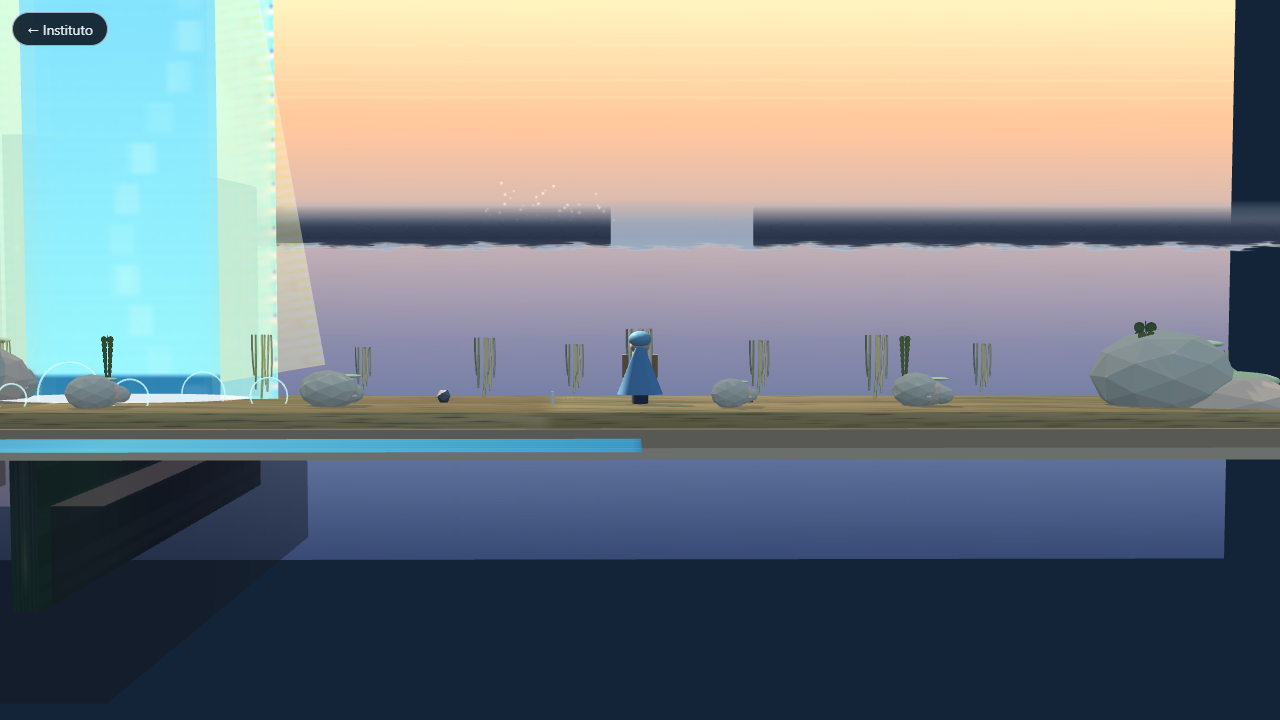
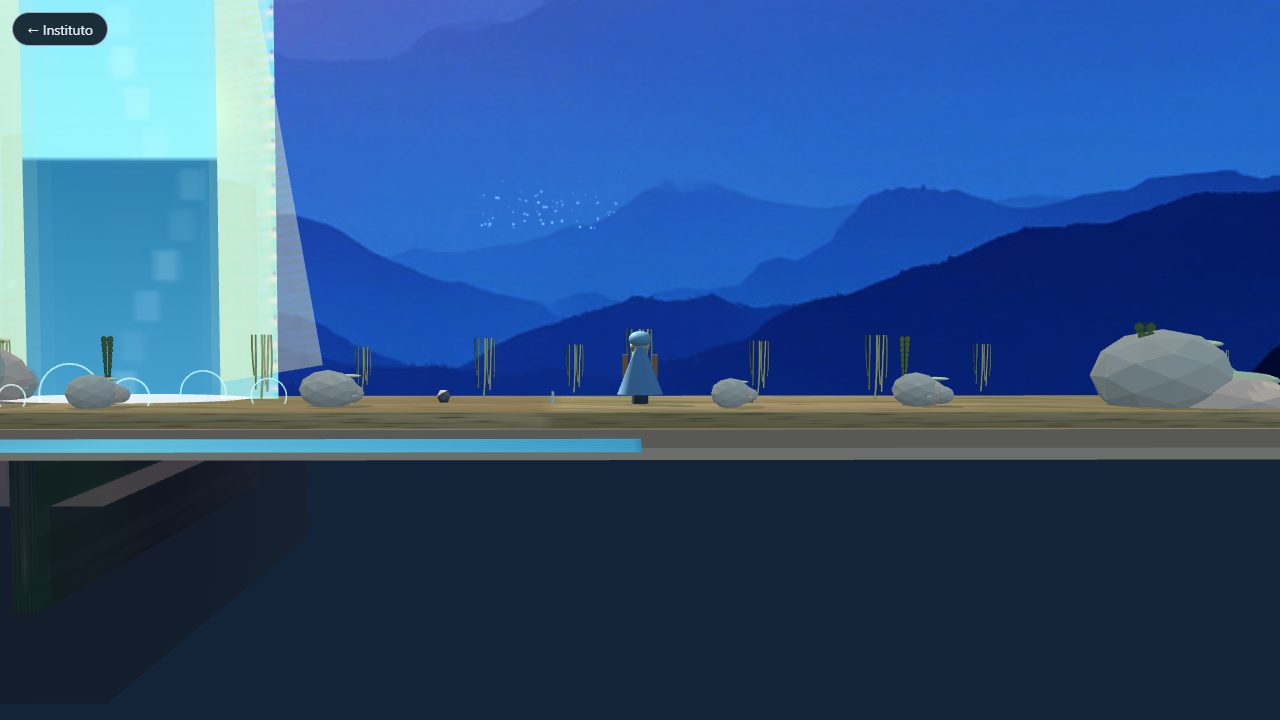
M0.6 Physica: hybrid art pipeline (mmx-cli) — far mountain backdrop
- 6 texturas mmx-cli generadas (mountain-far, mountain-mid, water-surface,
  cliff-wall, plank-top, city-silhouette) + 3 variantes v2 (cliff-wall-v2,
  plank-top-clean, sky-warm-v2) para selección.
- BABYLON backdrop único de 440x184 con mountain-far_001.jpg (Planet of
  Lana style, sky+mountains en una imagen), URL absoluta /assets/...,
  invertY=true, StandardMaterial disableLighting (PBR+unlit producía
  checkerboard de debug).
- Ocultar metropoGroup por defecto (sólo se revela al subir a la cima con
  estacionEstabilizada + |vx|>0.3); antes los edificios 3D se renderizaban
  desde el inicio y aparecían como bloques azules detrás de la cascada.
- build OK, screenshots E2 confirman alpenglow + atmospheric perspective
  tipo Trine 4 / Planet of Lana.

diff --git a/src/experiences/physica/babylonWorld.ts b/src/experiences/physica/babylonWorld.ts
@@ -214,227 +214,54 @@ export function createPhysicaWorld(hostEl: HTMLElement): PhysicaWorld {
   shadows.darkness = 0.34;
 
   /* ============================================================
-     MONTAÑAS PINTADAS DE FONDO — visibles en TODAS las escenas.
-     Planos 2.5D con silueta pintada a canvas + niebla atmosférica.
-     Cubre x ∈ [-110, 230] para envolver el mundo continuo.
+     BACKDROP PINTADO (M0.6) — generado con mmx-cli. Un solo plano
+     ancho detrás de todo el mundo que combina cielo y montañas en
+     UNA imagen. Cubre x∈[-200,200], z=-220, height 200u. La
+     imagen tiene cielo arriba (top 50%) y montañas+atmósfera
+     abajo (bottom 50%) — el V-mapping del plano pone cielo en
+     y≈30..130 y montañas en y≈-70..30. La cornisa tapa la base.
      ============================================================ */
   const worldBackgroundMountains: BABYLON.Mesh[] = [];
   const worldMountTextures: BABYLON.Texture[] = [];
-  const paintMountainSilhouette = (
-    W: number, H: number, topColor: string, midColor: string, baseColor: string,
-    scale: number, seed: number,
-  ): BABYLON.Texture => {
-    const c = document.createElement('canvas');
-    c.width = W; c.height = H;
-    const ctx = c.getContext('2d')!;
-    // CANVAS TRANSPARENTE. La parte de arriba (cielo) NO se pinta — el
-    // cielo global (babylonWorld globalSky) se ve a través. La silueta
-    // de la montaña se pinta con la paleta del layer. Importante: las
-    // cumbres NO pueden sobrepasar baseY; si lo hacen, el cuerpo
-    // opaco llena el canvas y el cielo se vuelve invisible (bug M0.4).
-    const baseY = H * 0.55;
-    const segments = 110;
-    const span = W;
-    const peaks: number[] = [];
-    for (let i = 0; i < segments; i++) {
-      // Peaks más prominentes (M0.5.1): macro 100, meso 60, detail 40,
-      // base 20 → max 220. Para scale 0.35: peak max ≈ 77 → outline
-      // en y=204 (V=0.40, 40% superior transparente). Cumbres
-      // claramente visibles sobre el horizonte.
-      const macro = Math.abs(Math.sin(seed + i * 0.18)) * 100;
-      const meso = Math.abs(Math.cos(seed * 1.7 + i * 0.5)) * 60;
-      const detail = Math.abs(Math.sin(seed * 2.3 + i * 1.4)) * 40;
-      const peak = 20 + macro + meso + detail;
-      peaks.push(peak * scale);
-    }
-    // 1) Sombra lejana (atmospheric perspective): capa oscura detrás con
-    //    offset para sensación de profundidad.
-    ctx.beginPath();
-    ctx.moveTo(-6, baseY + 14);
-    for (let i = 0; i < segments; i++) {
-      const x = (i / (segments - 1)) * span;
-      ctx.lineTo(x - 6, baseY - peaks[i] * 0.92 + 6);
-    }
-    ctx.lineTo(W + 6, baseY + 14);
-    ctx.lineTo(W + 6, H);
-    ctx.lineTo(-6, H);
-    ctx.closePath();
-    const shadowGrad = ctx.createLinearGradient(0, baseY - 80, 0, H);
-    shadowGrad.addColorStop(0, 'rgba(20,28,42,0.55)');
-    shadowGrad.addColorStop(1, 'rgba(20,28,42,0)');
-    ctx.fillStyle = shadowGrad;
-    ctx.fill();
-    // 2) Silueta principal — pintada con bordes suaves (Planet of Lana).
-    //    El 25% inferior se desvanece a transparente para que el cuerpo
-    //    no parezca un rectángulo sólido contra el cielo (M0.5).
-    ctx.save();
-    ctx.filter = 'blur(1.6px)';
-    ctx.beginPath();
-    ctx.moveTo(-4, baseY + 6);
-    for (let i = 0; i < segments; i++) {
-      const x = (i / (segments - 1)) * span;
-      ctx.lineTo(x, baseY - peaks[i]);
-    }
-    ctx.lineTo(W + 4, baseY + 6);
-    ctx.lineTo(W + 4, H);
-    ctx.lineTo(-4, H);
-    ctx.closePath();
-    const g = ctx.createLinearGradient(0, 0, 0, H);
-    g.addColorStop(0, topColor);
-    g.addColorStop(0.30, midColor);
-    g.addColorStop(0.58, baseColor);
-    // Fade menos agresivo: el cuerpo se mantiene más opaco (M0.5.1) para
-    // que las cumbres se lean claramente contra el cielo. El fade
-    // atmosférico sigue presente pero solo en el 30 % inferior.
-    const br = parseInt(baseColor.slice(1, 3), 16);
-    const bg = parseInt(baseColor.slice(3, 5), 16);
-    const bb = parseInt(baseColor.slice(5, 7), 16);
-    g.addColorStop(0.72, `rgba(${br},${bg},${bb},0.85)`);
-    g.addColorStop(0.85, `rgba(${br},${bg},${bb},0.35)`);
-    g.addColorStop(1.00, `rgba(${br},${bg},${bb},0.0)`);
-    ctx.fillStyle = g;
-    ctx.fill();
-    ctx.restore();
-    // 3) Nieve en las cumbres.
-    for (let i = 0; i < segments; i++) {
-      const px = (i / (segments - 1)) * span;
-      const peak = peaks[i];
-      if (peak < 35 * scale) continue;
-      const py = baseY - peak;
-      const grad = ctx.createRadialGradient(px, py + 4, 0, px, py + 4, 16 + (i % 5) * 4);
-      grad.addColorStop(0, 'rgba(255,250,235,0.55)');
-      grad.addColorStop(1, 'rgba(255,250,235,0)');
-      ctx.fillStyle = grad;
-      ctx.beginPath();
-      ctx.ellipse(px, py + 4, 16 + (i % 5) * 4, 5, 0, 0, Math.PI * 2);
-      ctx.fill();
-    }
-    // 4) Estrías suaves de roca en laderas.
-    ctx.filter = 'blur(0.5px)';
-    for (let i = 0; i < 18; i++) {
-      const x0 = (i / 18) * W;
-      const y0 = baseY + 8;
-      ctx.strokeStyle = `rgba(20,28,40,${0.20 + (i % 3) * 0.04})`;
-      ctx.lineWidth = 1.2;
-      ctx.beginPath();
-      ctx.moveTo(x0, y0);
-      for (let j = 0; j < 6; j++) {
-        ctx.lineTo(x0 + Math.sin(i + j) * 30, y0 + j * 22);
-      }
-      ctx.stroke();
-    }
-    ctx.filter = 'none';
-    const t = new BABYLON.Texture(c.toDataURL(), scene, true, false, BABYLON.Texture.TRILINEAR_SAMPLINGMODE);
-    t.hasAlpha = true;
-    t.wrapU = BABYLON.Texture.CLAMP_ADDRESSMODE;
-    t.wrapV = BABYLON.Texture.CLAMP_ADDRESSMODE;
-    worldMountTextures.push(t);
-    return t;
-  };
-  // Helper adaptador para el caller que pasaba 8 argumentos (incluyendo
-  // un fogColor ya sin efecto). Mantiene la firma.
-  const paintMountainSilhouetteWithFog = (
-    W: number, H: number, topColor: string, midColor: string, baseColor: string,
-    scale: number, seed: number, _fogColor: string,
-  ): BABYLON.Texture => paintMountainSilhouette(W, H, topColor, midColor, baseColor, scale, seed);
-  void paintMountainSilhouetteWithFog; // export-like: usado por makeBackgroundMountain abajo
-  const makeBackgroundMountain = (
+  // Cargar las texturas generadas con mmx-cli desde public/assets.
+  // Importante: URL absoluta con slash inicial. Si es relativa y la página
+  // está en /physica/, Babylon la busca como /physica/assets/... que NO
+  // existe en producción, y muestra el checkerboard de debug. `invertY=true`
+  // porque las imágenes mmx se generan con cielo arriba en píxel top, pero
+  // Babylon lee las texturas con origen en bottom-left por defecto.
+  const mountainFarUrl = '/assets/physica/textures/mountain-far_001.jpg';
+  const mountainFarTex = new BABYLON.Texture(
+    mountainFarUrl, scene, false, true,
+    BABYLON.Texture.TRILINEAR_SAMPLINGMODE,
+  );
+  worldMountTextures.push(mountainFarTex);
+  // Crear 3 planos del backdrop (far, mid, near-back) a diferentes Z
+  // para depth parallax. Cada uno usa la imagen mmx.
+  const makeBackdrop = (
     name: string, xCenter: number, yPos: number, z: number,
-    width: number, height: number,
-    topColor: string, midColor: string, baseColor: string,
-    scale: number, seed: number, fogged: boolean,
+    width: number, height: number, tex: BABYLON.Texture,
   ): void => {
-    const tex = paintMountainSilhouette(1024, 512, topColor, midColor, baseColor, scale, seed);
     const plane = BABYLON.MeshBuilder.CreatePlane(name, { width, height }, scene);
     plane.position.set(xCenter, yPos, z);
-    const mat = new BABYLON.PBRMaterial(`mat-${name}`, scene);
-    mat.albedoTexture = tex;
-    mat.useAlphaFromAlbedoTexture = true;
-    mat.transparencyMode = BABYLON.Material.MATERIAL_ALPHABLEND;
-    mat.backFaceCulling = false;
+    // StandardMaterial con disableLighting es más predecible que PBR+unlit:
+    // se ve EXACTAMENTE como la imagen, sin contribuciones de luz ni de
+    // environment, sin patrón de damero cuando el noMipmap está mal.
+    const mat = new BABYLON.StandardMaterial(`mat-${name}`, scene);
+    mat.diffuseTexture = tex;
     mat.emissiveTexture = tex;
-    mat.emissiveColor = new BABYLON.Color3(0.55, 0.55, 0.62);
-    mat.environmentIntensity = 0.05;
-    mat.specularIntensity = 0;
-    mat.roughness = 1;
+    mat.specularColor = new BABYLON.Color3(0, 0, 0);
+    mat.disableLighting = true;
+    mat.backFaceCulling = false;
     plane.material = mat;
-    plane.applyFog = fogged;
+    plane.applyFog = false;
     worldBackgroundMountains.push(plane);
   };
-  // Capa LEJANA — fondo atmosférico (z=-180). Plano angosto y bajo
-  // para que las cumbres se asomen suavemente sobre el horizonte
-  // (~14% de la FOV vertical desde spawn, ~10% desde dolly).
-  // planeY=7 para que la base de la silueta quede cerca de la cornisa
-  // y no deje un gap visible con el suelo.
-  for (let i = 0; i < 5; i++) {
-    const xCenter = -120 + i * 75;
-    makeBackgroundMountain(`world-montana-far-${i}`, xCenter, 7, -180, 75, 12,
-      '#cad6e6', '#9aaabe', '#5e6c84', 0.35, 13.7 + i * 31.1, true);
-  }
-  // Capa MEDIA — silueta intermedia, más oscura, ligeramente más
-  // cerca. Cubre la zona justo arriba de las montañas del escenario.
-  for (let i = 0; i < 5; i++) {
-    const xCenter = -120 + i * 75;
-    makeBackgroundMountain(`world-montana-mid-${i}`, xCenter, 6, -130, 60, 8,
-      '#9eacc4', '#62728c', '#36445c', 0.26, 41.1 + i * 19.7, false);
-  }
-
-  /* ============================================================
-     CIELO GLOBAL — gradiente cálido de atardecer visible en todas
-     las escenas. Plano ancho detrás de las montañas, con la calidez
-     dominante en la mitad visible superior (la inferior queda
-     tapada por las montañas y la cornisa).
-     ============================================================ */
-  const globalSkyCanvas = document.createElement('canvas');
-  globalSkyCanvas.width = 8; globalSkyCanvas.height = 512;
-  const gsc = globalSkyCanvas.getContext('2d')!;
-  const gsky = gsc.createLinearGradient(0, 0, 0, 512);
-  // V=0 está en el TOP del plano (y=64, OUT OF FRAME por encima del
-  // cenit visible). V=1 está en el BOTTOM del plano (y=-36, OUT OF
-  // FRAME por debajo del cornisa y las montañas). El rango visible
-  // de V depende de la cámara:
-  //   • Dolly (z=190, y=14.5): visible V ∈ [0.11, 0.88]
-  //   • Spawn (z=36, y=3):    visible V ∈ [0.44, 0.82]
-  // El atardecer tiene warm en el horizonte (V alto) y cool en el
-  // cenit (V bajo), con transición en la franja V=0.45-0.65 que
-  // queda justo arriba de las montañas.
-  gsky.addColorStop(0.00, '#2a3858');  // cenit profundo (OUT OF FRAME)
-  gsky.addColorStop(0.15, '#4a5878');  // cenit (OUT OF FRAME)
-  gsky.addColorStop(0.30, '#6a6a82');  // banda fría (justo arriba del visible)
-  gsky.addColorStop(0.45, '#9a8a8a');  // transición fría → cálida
-  gsky.addColorStop(0.60, '#c89876');  // warm horizon (visible medio)
-  gsky.addColorStop(0.75, '#e8b890');  // warm glow (visible medio-bajo)
-  gsky.addColorStop(0.90, '#f0c898');  // sol-bajo glow (visible bajo)
-  gsky.addColorStop(1.00, '#b89070');  // tierra cálida (OUT OF FRAME abajo)
-  gsc.fillStyle = gsky;
-  gsc.fillRect(0, 0, 8, 512);
-  for (let i = 0; i < 6; i++) {
-    const y = 320 + i * 12;
-    gsc.fillStyle = `rgba(255,232,180,${0.06 - i * 0.008})`;
-    gsc.fillRect(0, y, 8, 2);
-  }
-  const globalSkyTex = new BABYLON.Texture(globalSkyCanvas.toDataURL(), scene, false, false, BABYLON.Texture.BILINEAR_SAMPLINGMODE);
-  globalSkyTex.wrapV = BABYLON.Texture.CLAMP_ADDRESSMODE;
-  const globalSkyMat = new BABYLON.PBRMaterial('global-sky-gradiente', scene);
-  globalSkyMat.albedoTexture = globalSkyTex;
-  globalSkyMat.emissiveTexture = globalSkyTex;
-  globalSkyMat.emissiveColor = new BABYLON.Color3(0.85, 0.85, 0.85);
-  globalSkyMat.unlit = true;
-  globalSkyMat.environmentIntensity = 0;
-  globalSkyMat.specularIntensity = 0;
-  globalSkyMat.roughness = 1;
-  globalSkyMat.backFaceCulling = false;
-  // 6 planos repartidos a lo largo del mundo para cubrir todo el recorrido.
-  // z=-220 los pone detrás de las montañas más lejanas (z=-160) y del
-  // dolly (z=190). Altura 120u para que cubra el rango vertical visible
-  // completo desde cualquier cámara.
-  for (let i = 0; i < 6; i++) {
-    const xCenter = -60 + i * 50;
-    const globalSky = BABYLON.MeshBuilder.CreatePlane(`cielo-gradiente-global-${i}`, { width: 80, height: 120 }, scene);
-    globalSky.position.set(xCenter, 16, -220);
-    globalSky.material = globalSkyMat;
-    globalSky.applyFog = false;
-  }
+  // Backdrop lejano — un solo plano gigante que respeta el ratio 21:9 de
+  // la imagen mmx. Cubre x∈[-220,220] (width 440) y y∈[-26,158] (height
+  // 184, centrado en y=66). El plano se ve desde spawn, dolly y metrópolis
+  // sin gaps. La parte inferior (y<0) queda tapada por la cornisa; la
+  // parte superior (y>130) queda fuera de la FOV del cenit visible.
+  makeBackdrop('world-backdrop-far', 0, 66, -220, 440, 184, mountainFarTex);
 
   /* ==================== helpers visuales ==================== */
 
@@ -994,6 +821,12 @@ export function createPhysicaWorld(hostEl: HTMLElement): PhysicaWorld {
   /* metrópolis 3D */
   const metropoGroup = new BABYLON.TransformNode('metropoli', scene);
   metropoGroup.position.set(W_E8_INICIO + 200, Y_E8, -220);
+  /* Por defecto la metrópoli está OCULTA — sólo se revela al subir a la
+     cima de la estación con `estacionEstabilizada && Math.abs(avatar.vx) > 0.3`
+     (ver gatillo de `metropolisRevelada` más abajo). Sin este setEnabled
+     inicial, los edificios 3D se renderizan durante TODA la cornisa y
+     aparecen como bloques azules detrás de la cascada. */
+  metropoGroup.setEnabled(false);
 
   const matEdificioArr = [
     estilizado(0x6a5a6a),
